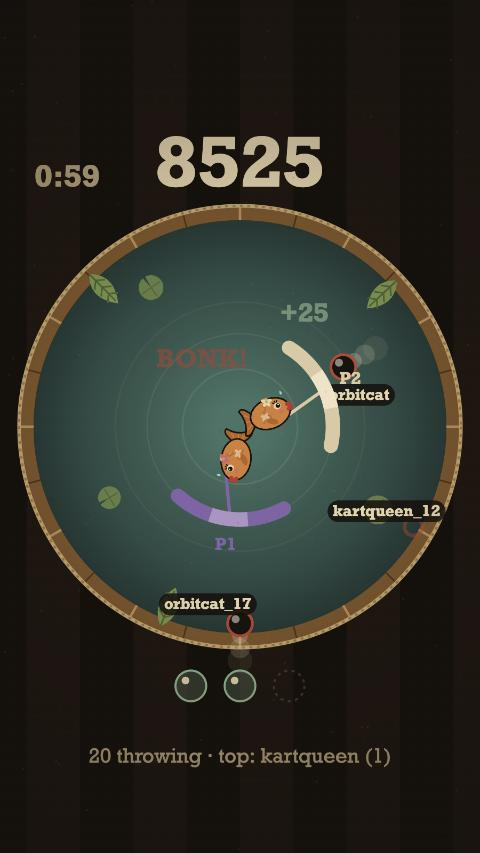
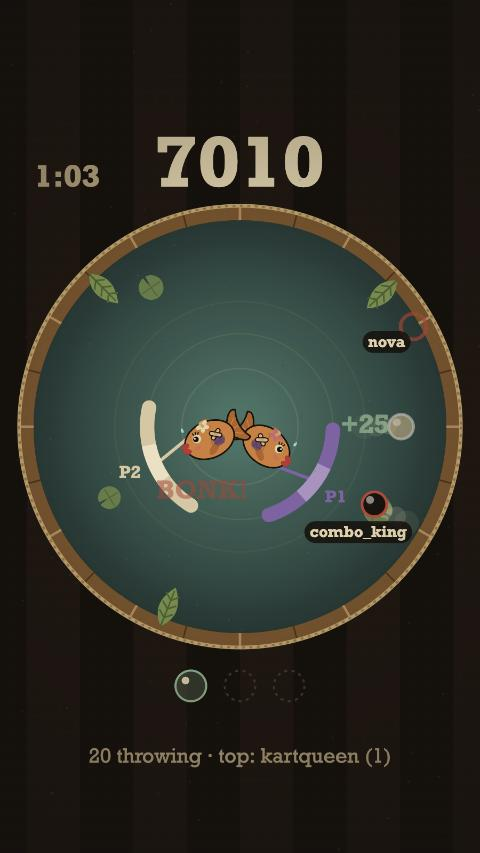
Fish in a barrel: slapstick injuries per fish, own palette notes
- Hits leave injuries that build up (bruises, a black eye, band-aids, then
  dizzy), at the lead's request; no blood or gore (13+, public streams).
- game.ts tracks bonks per fish (hurt[]), so each duo fish shows its own
  damage; new test. Rules otherwise unchanged; 22 tests pass.
- The fish is drawn larger and result cards sit low in the barrel, so the
  battered fish stays visible.
- Docs: each game has its own theme and palette; GameTime's tokens are for the
  app (plan §4F, design doc, decision 009, P3-GAME-01 in the backlog).

diff --git a/games/ringward/src/render.ts b/games/ringward/src/render.ts
@@ -1,5 +1,5 @@
 /**
- * Draws a Game onto a canvas. Greybox: flat placeholder shapes in GameTime's palette, no assets.
+ * Draws a Game onto a canvas. Greybox: code-drawn placeholder art in the game's own palette, no assets.
  *
  * Theme (decision 009): fish in a barrel, seen from above, tropical. The arena is a wooden barrel
  * of lagoon water; the "core" is the goldfish (two in duo) in the middle, each holding a shield;
@@ -18,13 +18,14 @@ import {
   isDuo,
   isOverdrive,
   multiplier,
+  nearestShieldIndex,
   slotAngle,
   timeLeft,
   topRaiders,
   type Game,
 } from './game.ts';
 
-/** Mirrors src/theme/tokens.ts in the app. */
+/** The app's tokens (src/theme/tokens.ts), kept for reference; the game draws with VINTAGE and THEME. */
 export const palette = {
   background: '#0B0B12',
   surface: '#16161F',
@@ -61,7 +62,7 @@ const SHIELD_COLORS = [
 ];
 
 /**
- * Theme colours outside GameTime's palette, by the project lead's direction (Nov 17, 2026):
+ * The game's own theme colours (each game has its own palette; project lead, Nov 17, 2026):
  * an orange goldfish with bright red lips in a wooden barrel. The HUD and UI stay in the VINTAGE.
  */
 const THEME = {
@@ -75,6 +76,9 @@ const THEME = {
   blush: 'rgba(255,92,138,0.5)',
   lashes: '#0B0B12',
   bandAid: '#F2C79B',
+  bandAidPad: '#E7AE7E',
+  bruise: 'rgba(96,62,140,0.55)',
+  blackEye: '#3B2A4E',
   sweat: '#9FE3FF',
   /** P1 wears a pink hibiscus, P2 a white plumeria (matching the white P2 shield). */
   flowers: [
@@ -254,8 +258,12 @@ export function render(ctx: CanvasRenderingContext2D, l: Layout, game: Game, o: 
   });
 
   // The fish themselves, drawn last in the water so they sit on top of their sticks.
+  // Only the fish that took the hit flashes; each fish shows its own injuries.
   const flash = recentBonk ? 1 - recentBonk.age / 0.25 : 0;
-  fish.forEach((f, i) => drawFish(ctx, f, i, game.cracks, game.phase === 'lost', flash, o.now));
+  const flashed = recentBonk ? nearestShieldIndex(game, recentBonk.angle) : -1;
+  fish.forEach((f, i) =>
+    drawFish(ctx, f, i, game.hurt[i] ?? game.cracks, game.phase === 'lost', i === flashed ? flash : 0, o.now),
+  );
 
   // Popups: points for blocks, BONK! when a ball gets through.
   ctx.textAlign = 'center';
@@ -446,11 +454,12 @@ interface FishSpot {
 /** One big fish in the middle (solo), or two smaller ones nudged towards their shields (duo). */
 function fishPositions(l: Layout, game: Game): FishSpot[] {
   if (!isDuo(game)) {
-    return [{ x: l.cx, y: l.cy, size: CORE_R * l.r * 0.95, facing: game.shields[0] }];
+    // Drawn a bit larger than the rules' core radius so injuries read on a phone.
+    return [{ x: l.cx, y: l.cy, size: CORE_R * l.r * 1.2, facing: game.shields[0] }];
   }
   return game.shields.map((a) => {
     const [x, y] = polar(l, a, CORE_R * 0.8);
-    return { x, y, size: CORE_R * l.r * 0.5, facing: a };
+    return { x, y, size: CORE_R * l.r * 0.62, facing: a };
   });
 }
 
@@ -469,7 +478,7 @@ function drawFish(
   now: number,
 ): void {
   const { x, y, size } = f;
-  const hurt = dizzy ? MAX_CRACKS : Math.min(bonks, MAX_CRACKS);
+  const hurt = Math.min(bonks, MAX_CRACKS);
   const flower = THEME.flowers[player] ?? THEME.flowers[0];
   const wiggle = Math.sin(now * 6 + player) * 0.12;
   ctx.save();
@@ -536,21 +545,19 @@ function drawFish(
   ctx.fillStyle = THEME.fishShade;
   ctx.fill();
 
-  // Damage that builds up with each bonk (cartoon only).
+  // Injuries that build up with each bonk: slapstick bruises and band-aids, never blood.
   if (hurt >= 1) {
-    // A band-aid on the side.
-    ctx.save();
-    ctx.translate(-size * 0.3, size * 0.05);
-    for (const rot of [0.6, -0.6]) {
-      ctx.save();
-      ctx.rotate(rot);
-      ctx.beginPath();
-      ctx.roundRect(-size * 0.22, -size * 0.07, size * 0.44, size * 0.14, size * 0.07);
-      ctx.fillStyle = THEME.bandAid;
-      ctx.fill();
-      ctx.restore();
-    }
-    ctx.restore();
+    drawBruise(ctx, -size * 0.35, size * 0.18, size * 0.24);
+    drawBandAid(ctx, -size * 0.3, -size * 0.1, size * 0.5, 0.6);
+    drawBandAid(ctx, -size * 0.3, -size * 0.1, size * 0.5, -0.6);
+  }
+  if (hurt >= 2) {
+    drawBruise(ctx, size * 0.15, size * 0.42, size * 0.18);
+    drawBandAid(ctx, size * 0.1, -size * 0.58, size * 0.42, 0.15);
+  }
+  if (hurt >= 3) {
+    drawBruise(ctx, -size * 0.7, -size * 0.2, size * 0.2);
+    drawBandAid(ctx, size * 0.78, size * 0.32, size * 0.32, -0.9);
   }
 
   // Cheek blush.
@@ -568,9 +575,15 @@ function drawFish(
   ctx.ellipse(size * 0.98, size * 0.1, size * 0.17, size * 0.11, -0.35, 0, Math.PI * 2);
   ctx.fill();
 
-  // Eye with lashes, or a dizzy spiral.
+  // Eye with lashes, or a dizzy spiral. From the second bonk it's a black eye.
   const ex = size * 0.45;
   const ey = -size * 0.22;
+  if (hurt >= 2) {
+    ctx.beginPath();
+    ctx.ellipse(ex, ey + size * 0.02, size * 0.27, size * 0.24, 0, 0, Math.PI * 2);
+    ctx.fillStyle = THEME.blackEye;
+    ctx.fill();
+  }
   if (dizzy) {
     ctx.beginPath();
     for (let t = 0; t < 4 * Math.PI; t += 0.3) {
@@ -655,6 +668,35 @@ function drawFish(
       drawStar(ctx, x + Math.cos(a) * size * 1.2, y - size * 0.9 + Math.sin(a) * size * 0.35, size * 0.16);
     }
   }
+}
+
+/** A soft purple bruise. */
+function drawBruise(ctx: CanvasRenderingContext2D, x: number, y: number, s: number): void {
+  ctx.fillStyle = THEME.bruise;
+  for (const [dx, dy, k] of [[0, 0, 1], [s * 0.35, -s * 0.2, 0.7], [-s * 0.3, s * 0.15, 0.6]]) {
+    ctx.beginPath();
+    ctx.ellipse(x + dx, y + dy, s * k, s * k * 0.75, 0.4, 0, Math.PI * 2);
+    ctx.fill();
+  }
+}
+
+/** A band-aid strip of length len, rotated by rot, centred on (x, y). */
+function drawBandAid(ctx: CanvasRenderingContext2D, x: number, y: number, len: number, rot: number): void {
+  ctx.save();
+  ctx.translate(x, y);
+  ctx.rotate(rot);
+  ctx.beginPath();
+  ctx.roundRect(-len / 2, -len * 0.16, len, len * 0.32, len * 0.16);
+  ctx.fillStyle = THEME.bandAid;
+  ctx.fill();
+  ctx.strokeStyle = VINTAGE.ink;
+  ctx.lineWidth = Math.max(1, len * 0.04);
+  ctx.stroke();
+  ctx.beginPath();
+  ctx.rect(-len * 0.14, -len * 0.12, len * 0.28, len * 0.24);
+  ctx.fillStyle = THEME.bandAidPad;
+  ctx.fill();
+  ctx.restore();
 }
 
 function drawFlower(
@@ -802,9 +844,11 @@ function drawHud(ctx: CanvasRenderingContext2D, l: Layout, game: Game, o: Render
     return;
   }
 
-  // Title and result cards, across the middle of the barrel.
+  // Title card across the middle of the barrel. Result cards sit in its lower part instead, so
+  // the fish (dizzy and bandaged, or still swimming) stays in view above them.
   ctx.fillStyle = 'rgba(23,17,13,0.85)';
-  ctx.fillRect(0, cy - r * 0.62, l.width, r * 1.24);
+  if (game.phase === 'ready') ctx.fillRect(0, cy - r * 0.62, l.width, r * 1.24);
+  else ctx.fillRect(0, cy + r * 0.3, l.width, r * 0.82);
   ctx.textBaseline = 'middle';
   if (game.phase === 'ready') {
     ctx.fillStyle = VINTAGE.text;
@@ -830,21 +874,21 @@ function drawHud(ctx: CanvasRenderingContext2D, l: Layout, game: Game, o: Render
     const won = game.phase === 'won';
     const viewersWon = !won && game.coreBreaker !== null;
     ctx.fillStyle = won ? VINTAGE.mint : VINTAGE.live;
-    ctx.font = font(unit * 11);
-    ctx.fillText(won ? 'STILL SWIMMING' : viewersWon ? 'VIEWERS WIN' : 'DIZZY!', cx, cy - r * 0.32, column * 0.92);
+    ctx.font = font(unit * 9.5);
+    ctx.fillText(won ? 'STILL SWIMMING' : viewersWon ? 'VIEWERS WIN' : 'DIZZY!', cx, cy + r * 0.44, column * 0.92);
     ctx.fillStyle = VINTAGE.text;
     ctx.font = font(unit * 5.2, 500);
     const detail = viewersWon
       ? `Final bonk by ${shortName(game.coreBreaker ?? '')}`
       : `Score ${game.score} · lasted ${formatTime(game.elapsed)}`;
-    ctx.fillText(detail, cx, cy - r * 0.02, column * 0.92);
+    ctx.fillText(detail, cx, cy + r * 0.64, column * 0.92);
     ctx.fillStyle = VINTAGE.textSecondary;
-    ctx.font = font(unit * 4.4, 500);
+    ctx.font = font(unit * 4.2, 500);
     const stats = raiderCount > 0
       ? `${game.blocks} blocked · ${raiderCount} throwers · score ${game.score}`
       : `${game.perfects} perfect · ${game.blocks} blocks · best ${o.best}`;
-    ctx.fillText(stats, cx, cy + r * 0.18, column * 0.92);
-    ctx.fillText('Click or Space to play again', cx, cy + r * 0.38, column * 0.92);
+    ctx.fillText(stats, cx, cy + r * 0.81, column * 0.92);
+    ctx.fillText('Click or Space to play again', cx, cy + r * 0.98, column * 0.92);
   }
   if (o.autopilot) {
     ctx.fillStyle = VINTAGE.textSecondary;

diff --git a/games/ringward/src/game.ts b/games/ringward/src/game.ts
@@ -92,6 +92,8 @@ export interface Game {
   score: number;
   combo: number;
   cracks: number;
+  /** Cracks taken by each fish (one per shield, nearest to where the shard landed), for drawing damage. */
+  hurt: number[];
   blocks: number;
   perfects: number;
   untilSpawn: number;
@@ -110,10 +112,12 @@ export interface GameOptions {
 }
 
 export function createGame(random: () => number = Math.random, options: GameOptions = {}): Game {
+  const shields = options.duo ? [-Math.PI / 2, Math.PI / 2] : [-Math.PI / 2];
   return {
     phase: 'ready',
     elapsed: 0,
-    shields: options.duo ? [-Math.PI / 2, Math.PI / 2] : [-Math.PI / 2],
+    shields,
+    hurt: shields.map(() => 0),
     shards: [],
     events: [],
     score: 0,
@@ -268,6 +272,7 @@ function hit(game: Game, kind: HitKind, shard: Shard): void {
   let points = 0;
   if (kind === 'crack') {
     game.cracks += 1;
+    game.hurt[nearestShieldIndex(game, shard.angle)] += 1;
     game.combo = 0;
     if (shard.by) raider(game, shard.by).cracks += 1;
     if (game.cracks >= MAX_CRACKS) game.coreBreaker = shard.by;
@@ -280,6 +285,15 @@ function hit(game: Game, kind: HitKind, shard: Shard): void {
     if (perfect) game.perfects += 1;
   }
   game.events.push({ kind, angle: shard.angle, points, age: 0, by: shard.by });
+}
+
+/** Which shield (and so which fish) a shard landed nearest to. */
+export function nearestShieldIndex(game: Game, angle: number): number {
+  let best = 0;
+  game.shields.forEach((a, i) => {
+    if (Math.abs(wrapAngle(angle - a)) < Math.abs(wrapAngle(angle - game.shields[best]))) best = i;
+  });
+  return best;
 }
 
 /** The smallest angular distance from a shard to any shield. */

diff --git a/games/ringward/src/game.test.ts b/games/ringward/src/game.test.ts
@@ -251,3 +251,12 @@ test('duo shields are solid: one stops where it would overlap the other', () => 
   const gap = Math.abs(wrapAngle(game.shields[0] - game.shields[1]));
   assert.ok(gap >= MIN_SHIELD_GAP - 1e-9, `shields ${gap} rad apart`);
 });
+
+test('each duo fish counts its own cracks; the round still ends on three in total', () => {
+  const game = quietGame({ duo: true });
+  // Just past P2's shield edge, so it lands on P2's side of the barrel.
+  game.shards.push({ ...flyingShard(game.shields[1] + 0.9), dist: CORE_R + 0.1 });
+  run(game, 0.5);
+  assert.deepEqual(game.hurt, [0, 1]);
+  assert.equal(game.cracks, 1);
+});

diff --git a/docs/game/design.md b/docs/game/design.md
@@ -17,17 +17,23 @@ An **old-timey, nostalgic, tropical** top-down cartoon: a faded seaside-carnival
 arena: lagoon water, lily pads, leaves hanging over a rope-bound wooden rim, carnival-tent stripes
 behind it. In the middle swims a round **orange goldfish with bright red lips**, lashes, a blush
 and a flower behind its eye, inked like an old cartoon, holding a shield on a stick. Shots are
-**cartoon cannonballs** (dark iron balls trailing smoke puffs). Still playful and non-violent:
-no blood, wounds, explosions or fishing hooks.
+**cartoon cannonballs** (dark iron balls trailing smoke puffs). Slapstick, not gory: hits leave
+bruises, a black eye and band-aids that pile up, but never blood, gore, explosions or fishing
+hooks (the app is 13+, decision 005, and streams are public).
 
-**Damage builds up with each bonk** (cartoon only), so viewers can see how close the fish is:
+**Injuries build up with each bonk**, so viewers can see how close the fish is to going down. In
+duo, each fish shows the bonks that landed on its side of the barrel (they still share three
+bubbles):
 
-| Bonks | The fish shows |
+| Bonks on this fish | The fish shows |
 |---|---|
 | Any bonk | A white flash and a squash, "BONK!", a bubble pops |
-| 1 | A bump on the head, a band-aid, a sweat drop; the flower loses a petal |
-| 2 | Two bumps, a droopy eyelid, a star circling its head; another petal gone |
-| 3 (round lost) | Spiral "dizzy" eye, three circling stars |
+| 1 | A purple bruise on its side, a crossed band-aid over it, a bump, a sweat drop; its flower loses a petal |
+| 2 | A **black eye** (dark ring, droopy lid), a second bruise, a band-aid on its head, a star circling |
+| 3 | A third bruise, a band-aid on its cheek; when the round is lost, a spiral "dizzy" eye and three stars |
+
+The result card sits in the lower part of the barrel, so the battered (or still swimming) fish
+stays in view at the end of a round.
 
 ## Modes
 | Mode | Who | How |
@@ -100,17 +106,20 @@ The rules in `games/ringward/src/game.ts` keep neutral names; only the screen us
 | Code | On screen |
 |---|---|
 | core | the goldfish (two in duo) |
+| `hurt[i]` | the injuries on fish *i* |
 | shard, `launch()` | cannonball, a shot |
-| crack, `cracks` | BONK!, a popped bubble |
+| crack, `cracks` | BONK!, a popped bubble, a new injury |
 | `coreBreaker` | "Final bonk by" |
 | overdrive | FRENZY! |
 | raiders | throwers ("12 throwing") |
 | rim slots | stave joints on the barrel rim |
 
 ## Art direction
-By the project lead's direction (Nov 17, 2026) the game has its own look: tropical characters, a
-wooden barrel, and an old-timey finish. It deliberately departs from GameTime's flat palette; P1's
-shield keeps a faded GameTime purple as the link to the app. All colours live at the top of
+**Each game has its own theme and palette** (project lead, Nov 17, 2026); GameTime's tokens
+(`src/theme/tokens.ts`) are for the app and still a work in progress. This game's look: tropical
+characters, a wooden barrel, and an old-timey finish, with strong contrast so it reads on a phone
+and the HUD stays clear under the app's overlay. P1's shield keeps a faded GameTime purple as a
+small link to the app. All colours live at the top of
 `games/ringward/src/render.ts` (`THEME` for the scene, `VINTAGE` for the screen).
 
 | Element | Colour |
@@ -154,7 +163,7 @@ press **G** (or add `?guides`) to show it. Check it in the OBS stream test.
 A sepia-toned old postcard come to life: a round wooden barrel of lagoon water filling the phone,
 an orange goldfish with red lips in the middle swinging a purple shield on a stick, and
 cannonballs trailing smoke flying in from the rim. A huge cream score above, the time left beside
-it, three bubbles below; bumps and band-aids on the fish show how it's doing. Within a second or two a ball either
+it, three bubbles below; bruises, a black eye and band-aids on the fish show how it's doing. Within a second or two a ball either
 bounces off the shield with a "+25" or BONKs the fish: a viewer swiping in gets the whole game
 without sound or explanation. In a raid, the balls carry other viewers' names and "12 throwing"
 sits under the barrel, so the next thing the viewer wants is the Raid button.

diff --git a/docs/decisions/009-game-concept.md b/docs/decisions/009-game-concept.md
@@ -31,15 +31,18 @@ Scored in [docs/game/concepts.md](../game/concepts.md), out of 40 (eight criteri
 with the ringward concept but change the theme to shooting fish in a barrel. there could be 1 or
 2 fishes in the center holding a shield." Further direction the same day: an orange goldfish with
 bright red lips, a wooden barrel, tropical with character details, cannonballs as the
-projectiles, a faster fish, damage that shows progressively, and an old-timey, nostalgic look.
+projectiles, a faster fish, damage that shows progressively (bruises, a black eye, band-aids),
+an old-timey, nostalgic look, and the game's own palette.
 
 - **Rules unchanged** except the shield's swing speed (720°/s mouse, 420°/s keys, up from 540 and
   300). Solo is one goldfish holding a shield; duo is two goldfish, each with a shield. Viewer
   raids fire the cannonballs, labelled with usernames.
 - **Theme**, recorded in [docs/game/design.md](../game/design.md): a top-down wooden barrel of
   lagoon water; cartoon cannonballs fired in over the rim; a ball that gets through is a "BONK!"
-  that adds visible cartoon damage (bump, band-aid, droopy eye, stars), and three make the fish
-  "DIZZY!". Non-violent: no blood, wounds or explosions. Old-film, carnival-postcard finish.
+  that adds visible injuries (bruises, band-aids, a black eye), and three make the fish
+  "DIZZY!". Slapstick injuries that build up (bruises, a black eye, band-aids; the lead: "i want
+  the bruising and wounds, like a black eye and bandaids"), but no blood or gore: the app is 13+
+  (decision 005) and streams are public. Old-film, carnival-postcard finish.
 
 ## Name (the team's call)
 "Ringward" stays the working title in code, paths and the seed row, so nothing breaks. Proposed
@@ -70,6 +73,8 @@ characters people can root for.
   `blocked:game-concept` label comes off their issues.
 - **Mockups:** `docs/game/mockups/` still shows the abstract Ringward; the mockups session
   re-themes it from the design doc.
-- The game has its own look, outside GameTime's flat palette, by the lead's direction; P1's
+- **Each game has its own theme and palette** (the lead: GameTime's palette "is not strict and
+  is still a work in progress … i expect all the games to have different themes and color
+  palettes"). GameTime's tokens are for the app. This game's palette is in the design doc; P1's
   shield keeps a faded GameTime purple. Fonts and art get finalised in Phase 3 (P3-GAME-01).
 - Exit criterion 8 still needs the greybox streamed through OBS into the app once.

diff --git a/PHASE_1_PLAN.md b/PHASE_1_PLAN.md
@@ -272,7 +272,9 @@ the game to the smallest concept on the shortlist.
   web build in `games/<slug>/`, deployed to its own Vercel URL. Keep it separate from the Expo app
   so a game bug can't break the app.
 - **Design doc** (`docs/game/design.md`, one page): core loop, controls, session length (quick
-  rounds or a long session), scoring, win/lose states, art direction using GameTime's palette, and
+  rounds or a long session), scoring, win/lose states, art direction with the game's own theme and
+  palette (each game has its own; GameTime's tokens in `src/theme/tokens.ts` are for the app and
+  still a work in progress), and
   what a viewer who swipes in mid-session sees in the first 5 seconds.
 - **Greybox prototype (week 2):** the core mechanic playable in a browser with placeholder shapes,
   streamed once through OBS into the app to check it reads on a phone screen.

diff --git a/games/ringward/README.md b/games/ringward/README.md
@@ -7,7 +7,8 @@ greybox stage: the full rules, with code-drawn placeholder art and no sound. Des
 [docs/game/concepts.md](../../docs/game/concepts.md).
 
 An orange goldfish in a wooden barrel swings a shield on a stick to bat away cartoon cannonballs
-for two minutes; three BONKs and it's dizzy. Old-timey, tropical and non-violent. Streamed
+for two minutes; each BONK leaves slapstick bruises, a black eye or a band-aid, and three make it
+dizzy. Old-timey and tropical, no blood or gore. Streamed
 **portrait** (9:16; see the design doc). On a stream, viewers fire the cannonballs from the
 GameTime app (*raids*), and a friend can join as a second goldfish with its own shield (*duo*); see [decision 010](../../docs/decisions/010-game-multiplayer-and-viewers.md)
 and [hosting-and-interaction.md](../../docs/game/hosting-and-interaction.md). The greybox has the

diff --git a/docs/backlog.md b/docs/backlog.md
@@ -696,7 +696,7 @@ Risk #2 mitigation: cap resolution and stream length.
 #### P3-GAME-01 · Final art and title screen
 - **Size:** M · **Owner:** TBD · **Depends on:** P2-GAME-05 · **Blocked on:** —
 
-- [ ] Original art in GameTime's palette, replacing all greybox shapes, still readable on a phone stream
+- [ ] Original art in the game's own theme and palette (`docs/game/design.md`), replacing all greybox shapes, still readable on a phone stream
 - [ ] Title screen with the game's own name and logo
 - [ ] Cover art for its `games` row (used by game chips and tiles)
 
